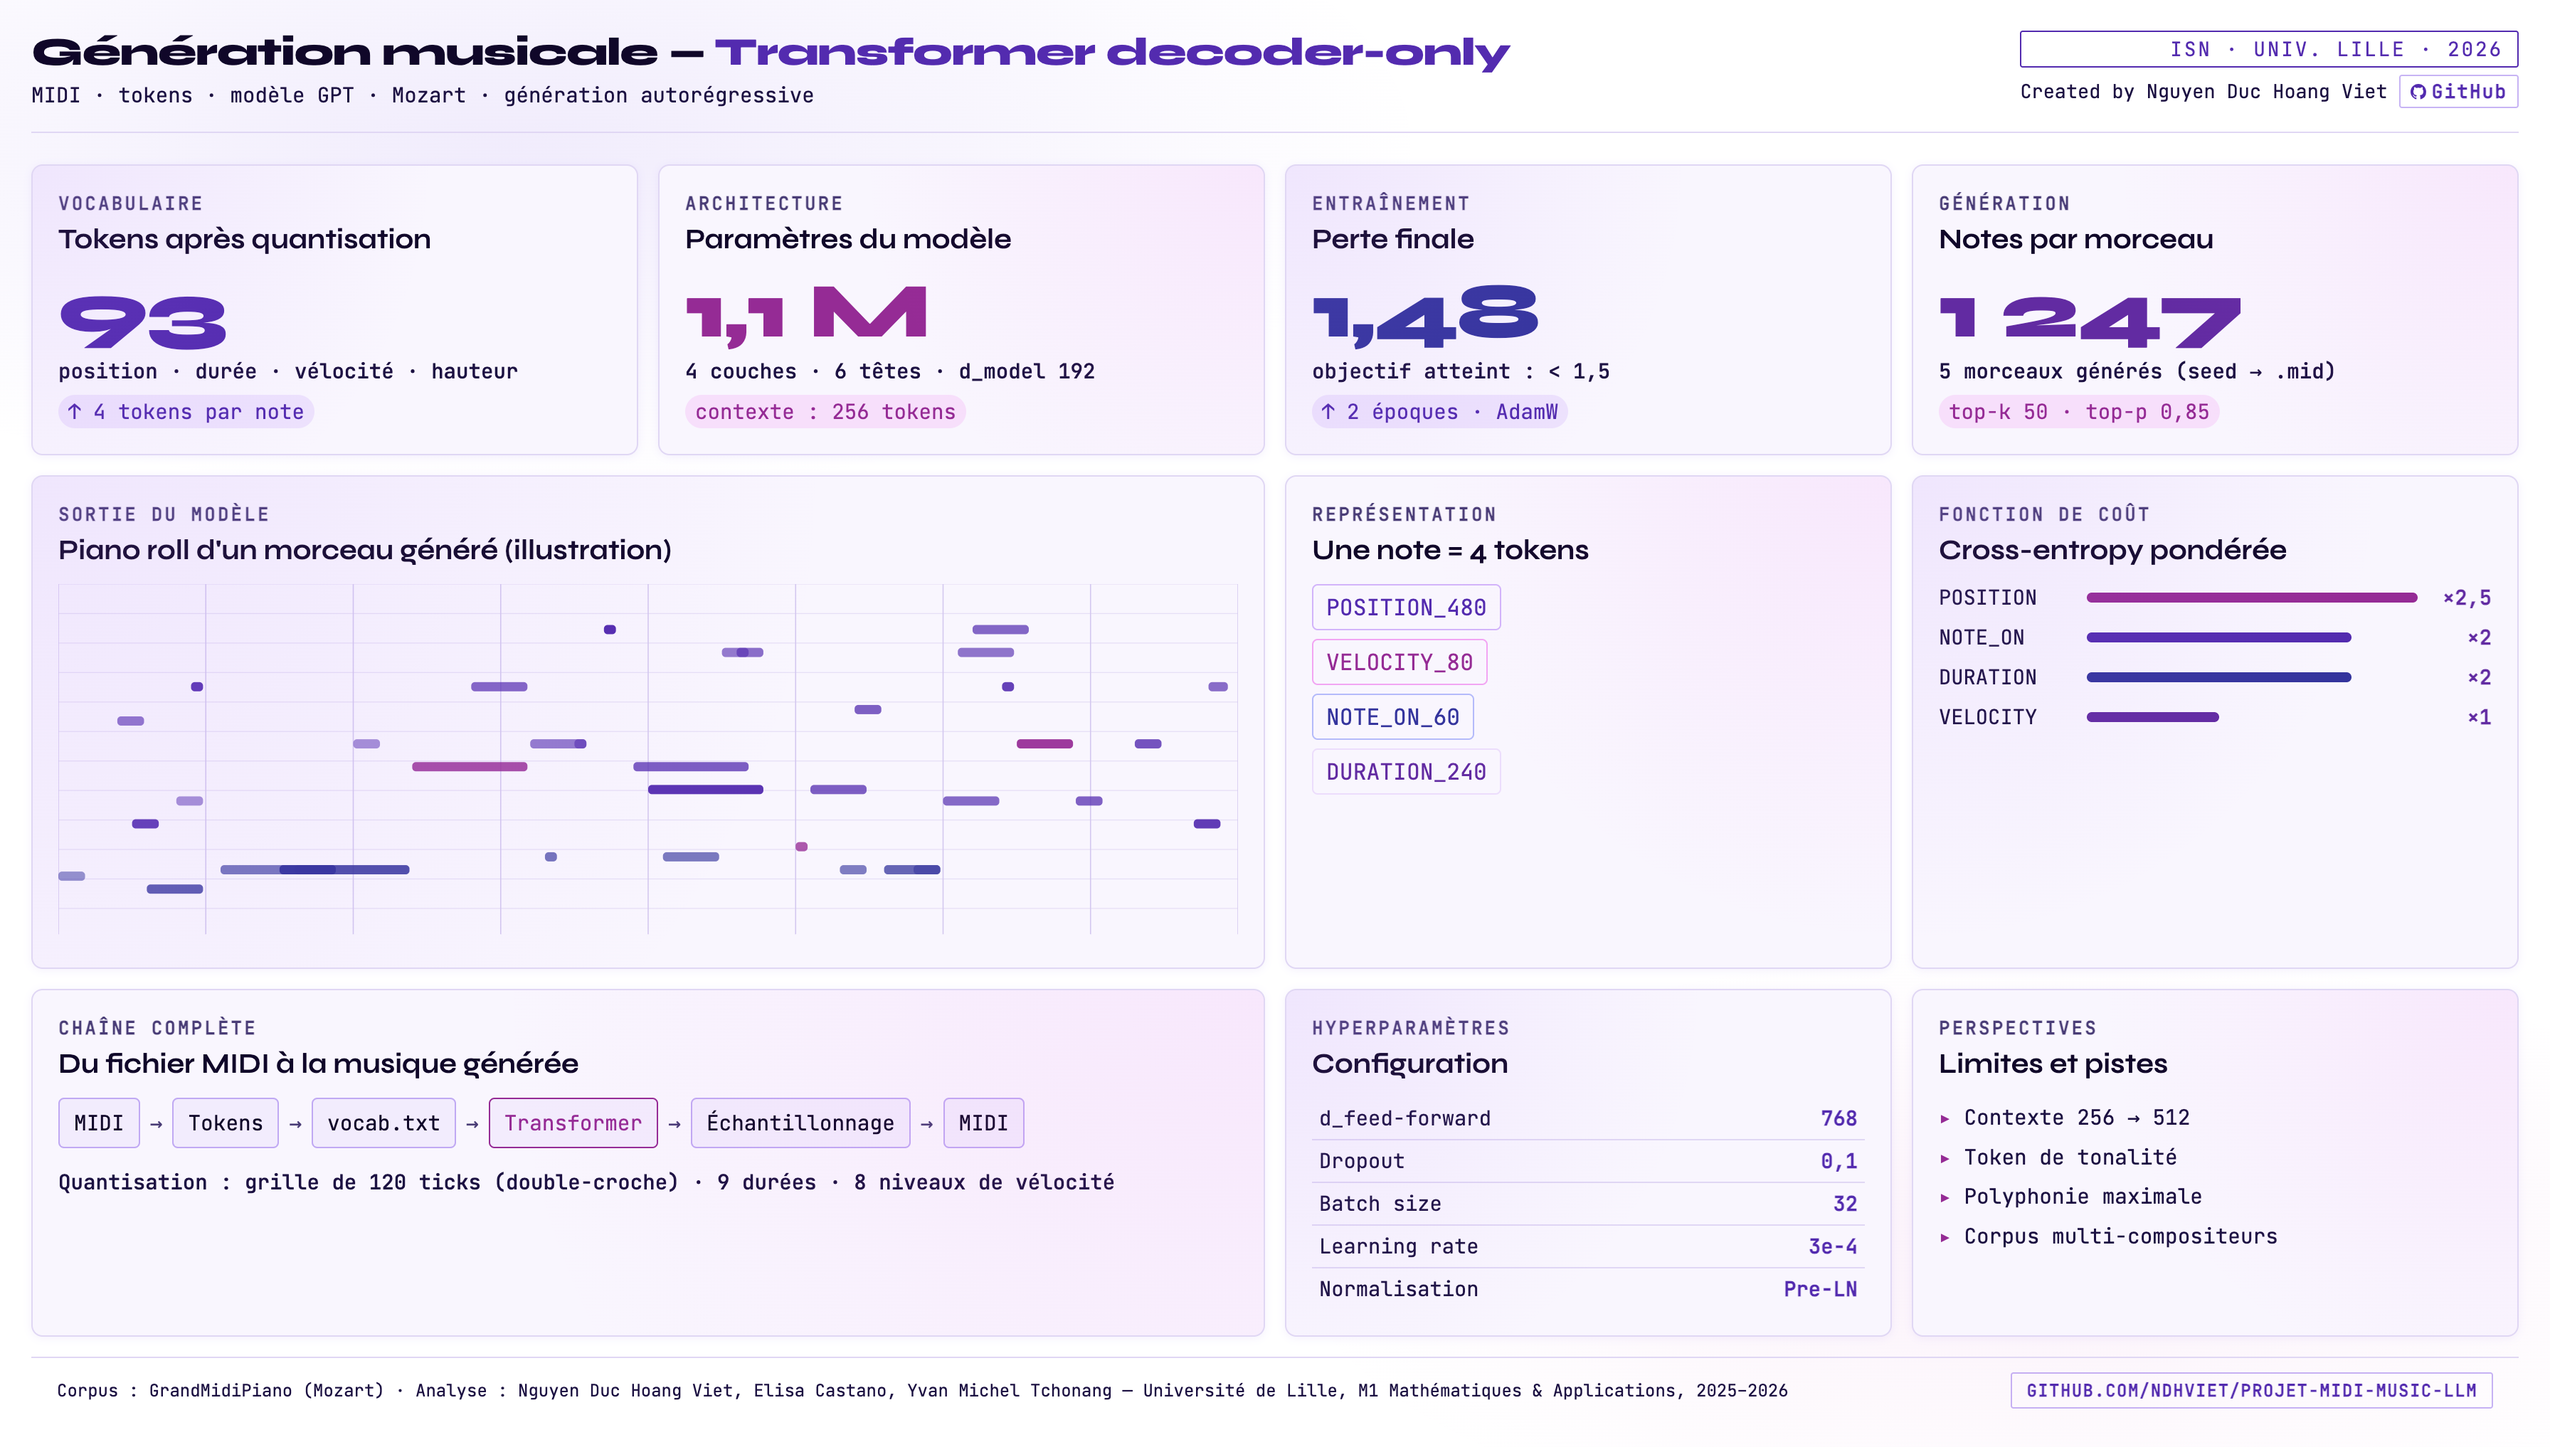
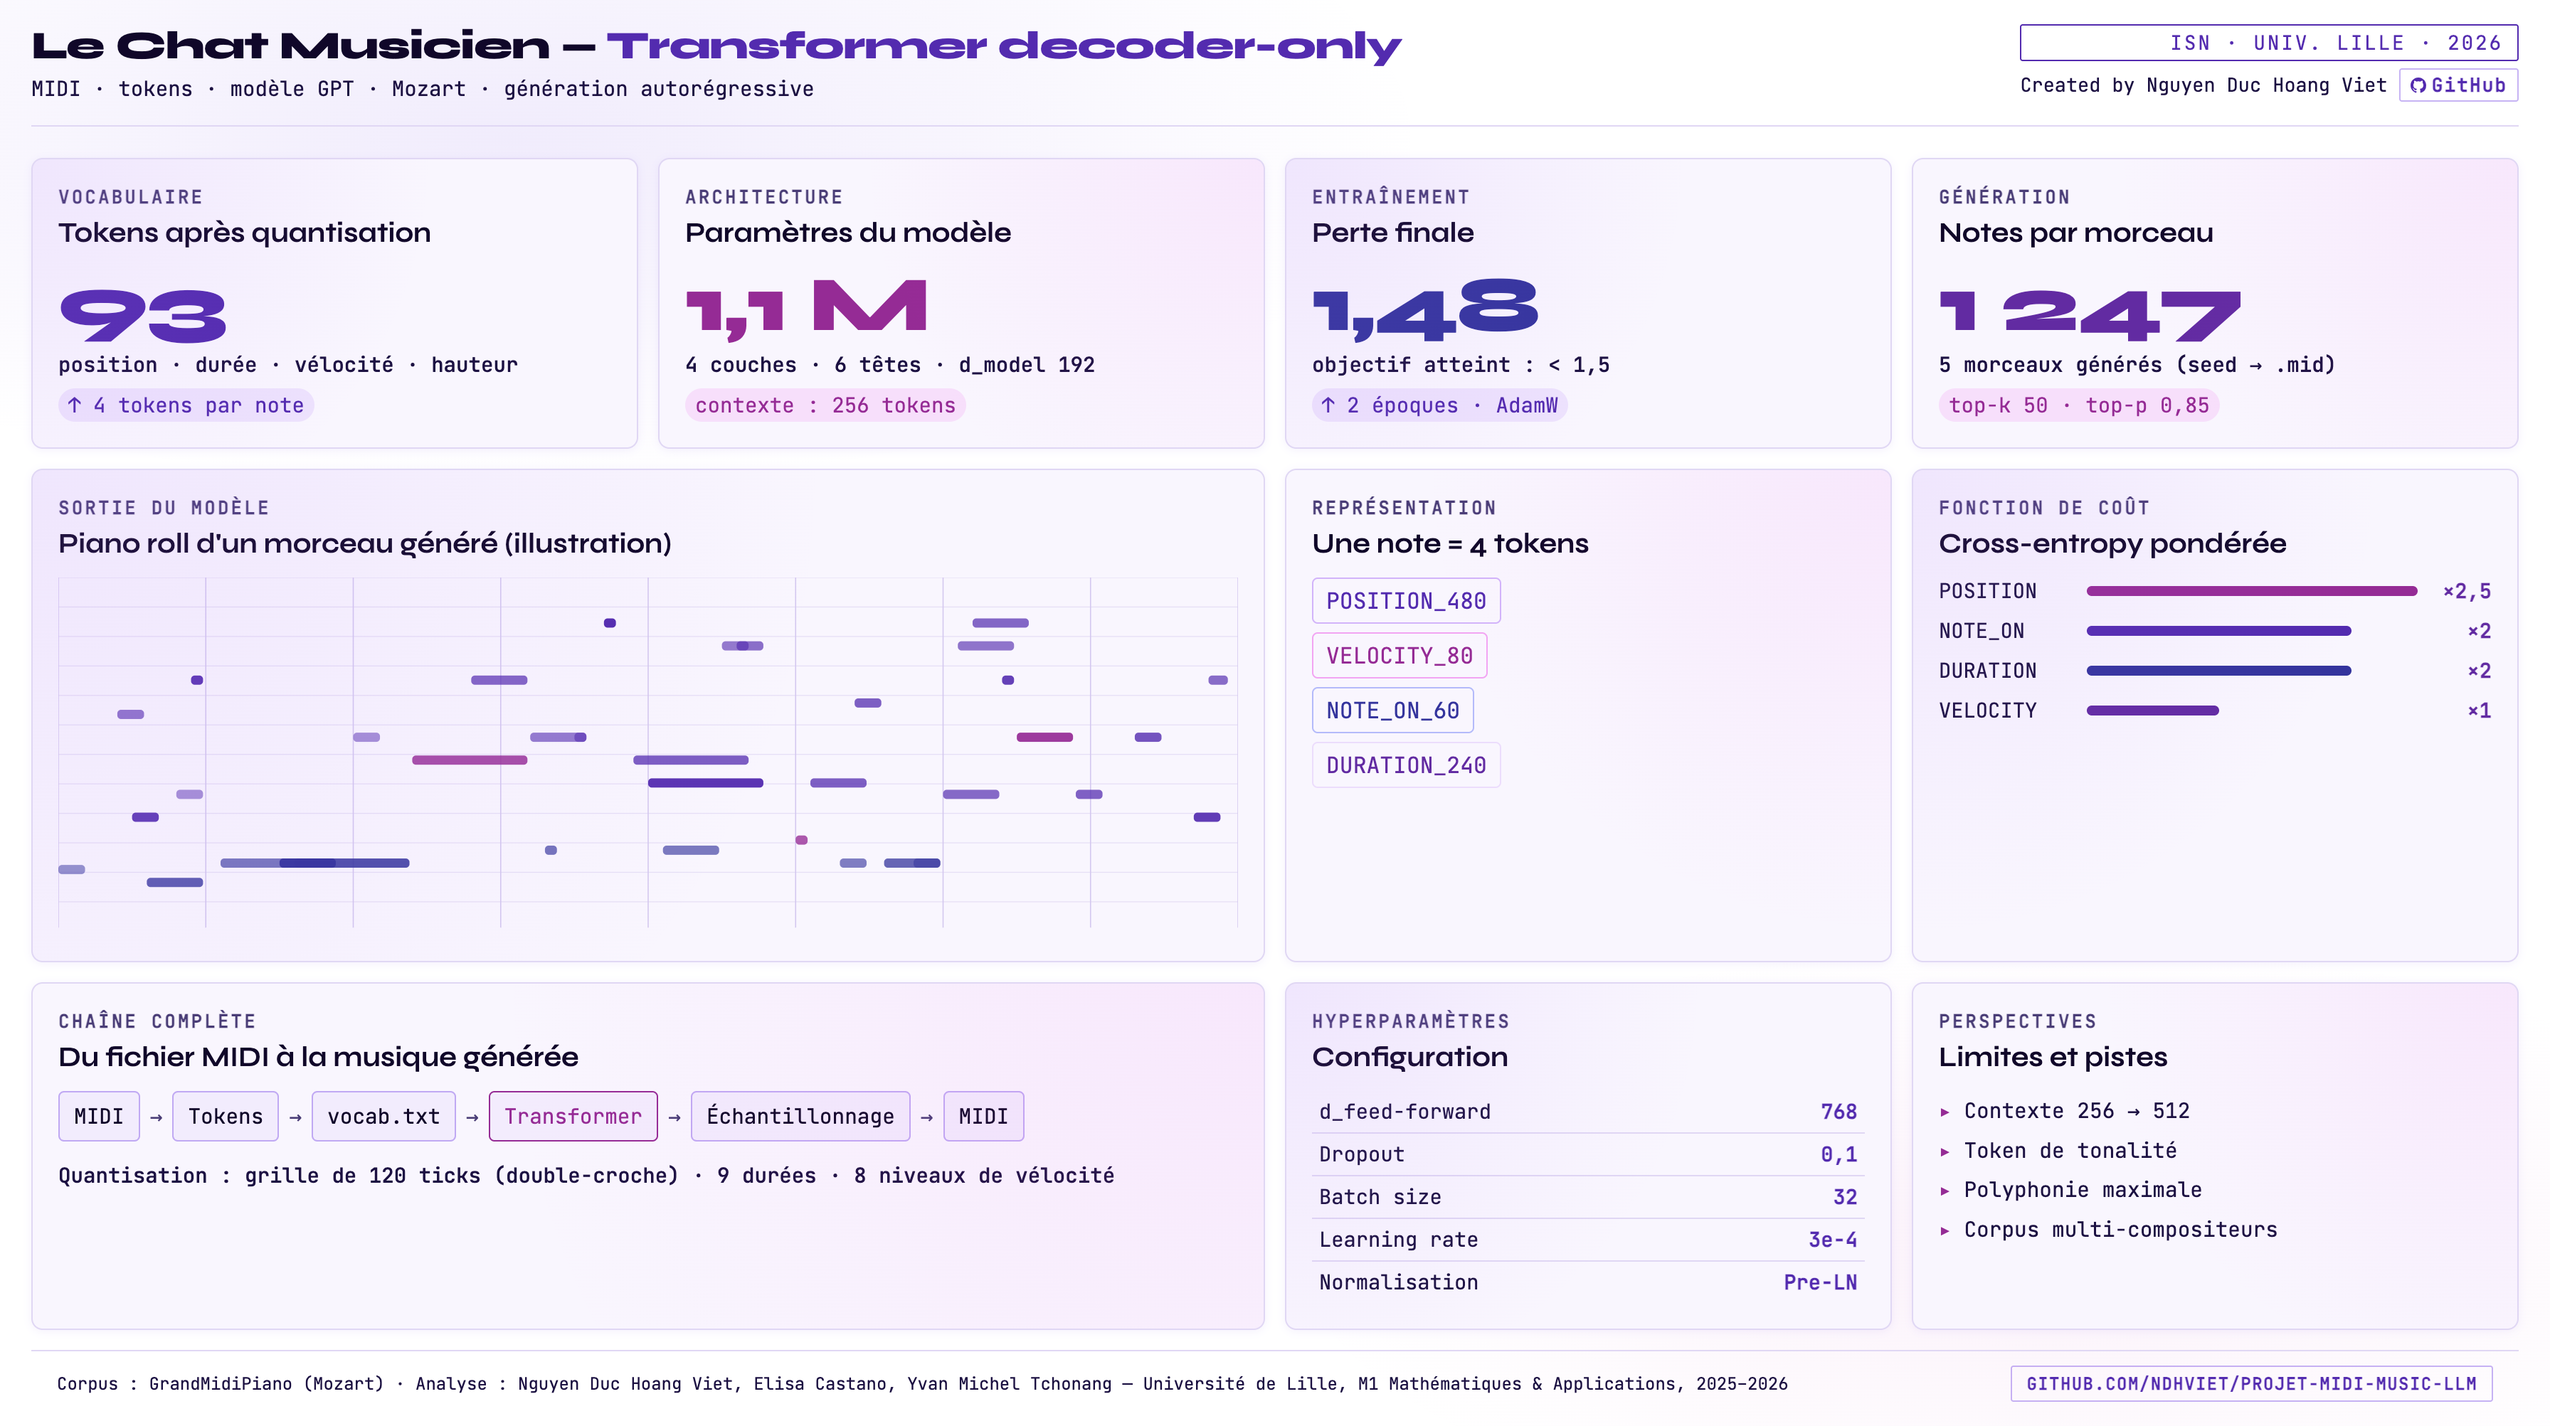
add file

diff --git a/docs/index.html b/docs/index.html
@@ -45,7 +45,7 @@ ul{font-size:0.92rem;line-height:1.9;color:#1f0f45;list-style:none}ul li::before
 @media(max-width:640px){.grid{grid-template-columns:1fr}.s2{grid-column:span 1}}
 </style></head><body>
 <header>
- <div><h1>Génération musicale — <span>Transformer decoder-only</span></h1>
+ <div><h1>Le Chat Musicien — <span>Transformer decoder-only</span></h1>
  <p>MIDI · tokens · modèle GPT · Mozart · génération autorégressive</p></div>
  <div style="text-align:right">
   <div class="badge">ISN · Univ. Lille · 2026</div>
